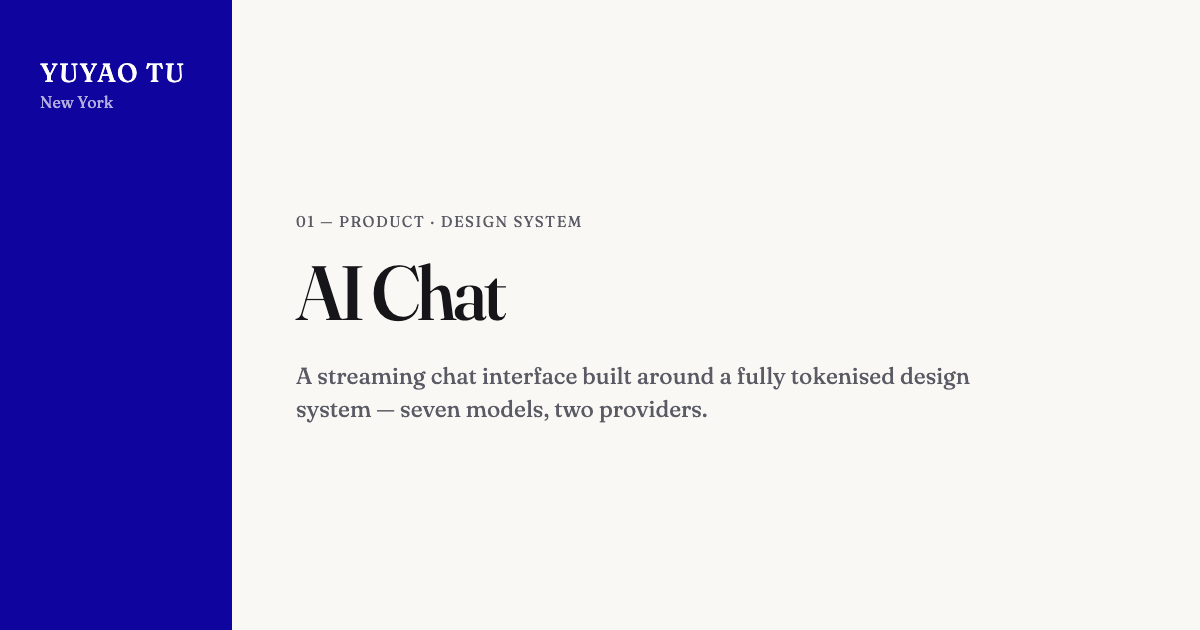
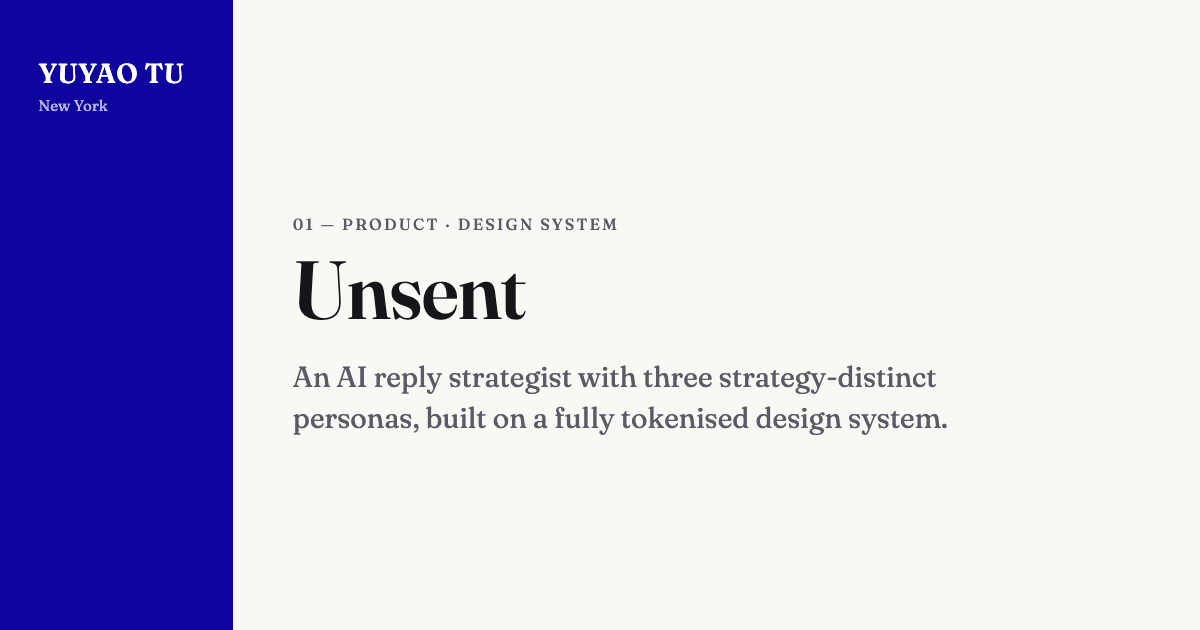
Rebrand case study 01 from AI Chat to Unsent
The project was rebranded to Unsent — an AI reply strategist with
strategy-distinct personas (Savage / Gentle / Veteran) on a Retro design
system. Bring the portfolio in line with what actually shipped.

- Index + rail title -> "AI Reply Strategist" (a value the reader gets at
  a glance); brand name "Unsent" carried in the meta line so it and the
  case study's own h1 introduce each other
- Case h1 "Unsent"; tighter lede; new "Why it exists" origin story that
  the vent/paste two-mode design falls out of
- Add persona-strategy and personaGuard (code-level safety) sections
- Retro palette description: dusty-pink ground, cream windows, coral +
  mustard accents, hard shadows
- Rewrite the contrast section for the light Retro theme with the real
  numbers — muted ink clearing AA on both grounds, status colours
  darkened ~18% off their translucent pills to clear 4.5:1
- Facts: 3 personas / 159 tokens / 119 tests, 10 suites
- Replace ai-chat.png with the new unsent.png; regenerate og-ai-chat.png

diff --git a/src/app/ai-chat/page.tsx b/src/app/ai-chat/page.tsx
@@ -2,13 +2,13 @@ import type { Metadata } from "next";
 import Image from "next/image";
 
 const DESCRIPTION =
-  "A streaming chat interface built around a fully tokenised design system — seven models, two providers.";
+  "An AI reply strategist with three strategy-distinct personas, built on a fully tokenised design system.";
 
 export const metadata: Metadata = {
-  title: "AI Chat",
+  title: "Unsent",
   description: DESCRIPTION,
   openGraph: {
-    title: "AI Chat — Yuyao Tu",
+    title: "Unsent — Yuyao Tu",
     description: DESCRIPTION,
     url: "/ai-chat",
     images: [{ url: "/og/og-ai-chat.png", width: 1200, height: 630 }],
@@ -29,21 +29,23 @@ const LINKS = [
 ];
 
 const FACTS = [
-  { value: "155", label: "design tokens" },
-  { value: "85", label: "tests, 7 suites" },
-  { value: "7", label: "models, 2 providers" },
+  { value: "3", label: "personas, orthogonal on strategy" },
+  { value: "159", label: "design tokens" },
+  { value: "119", label: "tests, 10 suites" },
 ];
 
 export default function AiChatPage() {
   return (
     <>
       <div className="case__eyebrow">01 — Product · Design system</div>
-      <h1 className="page-title">AI Chat</h1>
+      <h1 className="page-title">Unsent</h1>
 
       <p className="lede">
-        A streaming chat interface where the design system is the point. Seven
-        models across two providers, every value resolving through a token, and
-        the accessibility work done as engineering rather than as a checklist.
+        An AI reply strategist: you bring a hard message, it hands you words you
+        can actually send. It&rsquo;s built on a fully tokenised design system,
+        with the accessibility work done as engineering rather than as a
+        checklist — the craft underneath is as much the point here as the
+        product on top.
       </p>
 
       <div className="case__links">
@@ -59,10 +61,10 @@ export default function AiChatPage() {
           wait for lazy-loading to kick in. */}
       <div className="case__figure">
         <Image
-          src="/ai-chat.png"
-          alt="AI Chat interface — sidebar with conversation list, model selector, and the glass composer"
-          width={2880}
-          height={1626}
+          src="/unsent.png"
+          alt="Unsent interface — Veteran and Savage each answering the same pasted message with their own read and a copyable draft-reply card"
+          width={1972}
+          height={1666}
           priority
         />
       </div>
@@ -77,29 +79,104 @@ export default function AiChatPage() {
       </div>
 
       <section className="section">
-        <div className="section__label">The type scale is hand-tuned</div>
+        <div className="section__label">Why it exists</div>
         <div className="prose stack">
           <p>
-            A single mathematical ratio — 1.25×, 1.333× — has to compromise when
-            one scale serves both dense product UI and display type. So the ten
-            steps were tuned by role instead: tight at the small end where
-            information density matters, widening toward the display end where
-            impact does.
+            Some friends only call when things are falling apart. They feel in
+            floods; I think in straight lines — I can&rsquo;t always share the
+            feeling, but I can usually see the shape of what&rsquo;s happening.
+            Unsent is that friend without the part where even a good one fills
+            up: awake at 2am, warm enough to just listen, clear enough to name
+            what&rsquo;s really going on, and — when you ask — the words to send
+            back.
           </p>
           <p>
-            The four display steps are fluid, sized with{" "}
-            <code>clamp(min, A rem + B vw, max)</code> so headings scale
-            continuously between viewports rather than stepping at breakpoints.
-            The middle term mixes <code>rem</code> into <code>vw</code> on
-            purpose: a pure <code>vw</code> value ignores the reader&rsquo;s
-            browser font-size setting entirely, which fails WCAG 1.4.4.
+            The two modes fall straight out of that. Vent, and it just listens
+            in the persona&rsquo;s voice, then quietly offers a draft only if you
+            want one. Paste what they said, and it hands you the reply. There is
+            no mode switch to toggle — quoting the other person is itself the
+            signal that you want words back, so the interface never asks you to
+            classify your own message first.
+          </p>
+        </div>
+      </section>
+
+      <section className="section">
+        <div className="section__label">Personas differ on strategy, not tone</div>
+        <div className="prose stack">
+          <p>
+            The easy version of this product is one assistant with a tone
+            slider. The problem is that tone-only personas all give the same
+            advice in different accents. So the three advisors are orthogonal on{" "}
+            <em>strategy</em>, not wording: Savage cuts the losses, Gentle keeps
+            the thread alive, Veteran takes back the tempo. Put side by side on
+            the same message, they actually disagree about what to do.
           </p>
           <p>
-            Icon sizing is a separate scale. Several{" "}
-            <code>font-size</code> declarations were really sizing icon glyphs —
-            folding those into the type scale would mean resizing an avatar
-            perturbs body-copy proportions. Two unrelated concerns should not
-            share one control.
+            Getting there meant writing <em>style</em> and <em>strategy</em> as
+            two separate dimensions in the prompts, tuned over five rounds
+            against one fixed test input. Style alone and all three sound alike;
+            strategy alone and none of them has a personality. Every reply ends
+            in exactly one ready-to-send draft — the &ldquo;unsent&rdquo;
+            message the product is named for — that you copy in a click.
+          </p>
+        </div>
+      </section>
+
+      <section className="section">
+        <div className="section__label">A safety floor enforced in code, not the prompt</div>
+        <div className="prose stack">
+          <p>
+            A persona instructed to be blunt is one bad sample away from
+            advising something you can&rsquo;t take back. Because LLM output is
+            sampled rather than guaranteed, asking the prompt nicely is not a
+            control. So the shared safety floor lives in a{" "}
+            <code>personaGuard</code> that runs server-side after generation: it
+            parses the draft, checks banned phrases, and never lets any persona
+            recommend something irreversible.
+          </p>
+          <p>
+            Malformed output is validated, retried once, then degraded
+            gracefully rather than shown raw. The guard is a pure function with
+            its own test suite — the rule that &ldquo;no persona advises the
+            irreversible&rdquo; is verified in code, not left to trust in the
+            model.
+          </p>
+        </div>
+      </section>
+
+      <section className="section">
+        <div className="section__label">The whole look swapped by editing tokens, not components</div>
+        <div className="prose stack">
+          <p>
+            Every themeable value — colour, radius, shadow, font size, spacing —
+            resolves through a CSS variable rather than a literal. That is what
+            let the entire interface move from a dark glassmorphism theme to the
+            current
+            Retro system — a dusty-pink ground, cream windows, coral and mustard
+            accents, chunky black outlines, offset hard shadows — by editing
+            token{" "}
+            <em>values</em>, without touching a single component. The tokens
+            live in one file; the components only consume them.
+          </p>
+          <p>
+            The type scale is ten steps tuned by role rather than a single
+            ratio. A fixed 1.25× or 1.333× has to compromise when one scale
+            serves both dense product UI and display type, so the steps stay
+            tight at the small end where density matters and widen toward the
+            display end where impact does. The four display steps are fluid,
+            sized with <code>clamp(min, A rem + B vw, max)</code> so headings
+            scale continuously between viewports. The middle term mixes{" "}
+            <code>rem</code> into <code>vw</code> on purpose: a pure{" "}
+            <code>vw</code> value ignores the reader&rsquo;s browser font-size
+            setting entirely, which fails WCAG 1.4.4.
+          </p>
+          <p>
+            Icon sizing is a separate scale. Several <code>font-size</code>{" "}
+            declarations were really sizing icon and emoji glyphs — folding
+            those into the type scale would mean resizing an avatar perturbs
+            body-copy proportions. Two unrelated concerns should not share one
+            control.
           </p>
         </div>
       </section>
@@ -108,17 +185,21 @@ export default function AiChatPage() {
         <div className="section__label">Contrast measured, not declared</div>
         <div className="prose stack">
           <p>
-            Translucent surfaces mean a token&rsquo;s declared colour is not the
-            colour the text actually sits on. Muted ink and status colours were
-            darkened from the source design until small text cleared WCAG AA
-            against what <em>renders</em>, not against what the token says.
+            The same muted ink sits on two different grounds — the pink field
+            and the cream windows — so it was tuned to clear WCAG AA on both, not
+            just whichever ground the token happens to name. The status colours
+            needed more: the source design&rsquo;s green and amber landed near
+            3.3:1 on their translucent pills, under the 4.5:1 floor for the 14px
+            text sitting on them, so both were darkened about 18% until they
+            cleared it — same hue, measured against what <em>composites</em>, not
+            what the token declares.
           </p>
           <p>
-            Reduced motion collapses every transition to{" "}
-            <code>0.01ms</code> rather than <code>none</code>. Setting{" "}
-            <code>none</code> stops <code>transitionend</code> from ever firing,
-            which silently breaks any logic waiting on it — visually identical,
-            but the event contract survives.
+            Reduced motion collapses every transition to <code>0.01ms</code>{" "}
+            rather than <code>none</code>. Setting <code>none</code> stops{" "}
+            <code>transitionend</code> from ever firing, which silently breaks
+            any logic waiting on it — visually identical, but the event contract
+            survives.
           </p>
         </div>
       </section>
@@ -139,9 +220,9 @@ export default function AiChatPage() {
           <p>
             Hitting a limit returns <em>a stream, not an error</em>. The frames
             are identical in shape to a real model response, so a visitor
-            arriving after the quota is gone still sees streaming output,
-            Markdown rendering and syntax highlighting — rather than a red error
-            box that reads as a broken demo.
+            arriving after the quota is gone still sees output stream in, with
+            Markdown rendering, syntax highlighting and a working copy button —
+            rather than a red error box that reads as a broken demo.
           </p>
         </div>
       </section>

diff --git a/src/app/page.tsx b/src/app/page.tsx
@@ -6,8 +6,11 @@ const WORK = [
   {
     href: "/ai-chat",
     index: "01",
-    title: "AI Chat",
-    meta: "Design system · Streaming UI · 2026",
+    title: "AI Reply Strategist",
+    // The brand name leads the meta line so the index name and the case
+    // study's own h1 ("Unsent") introduce each other, rather than the visitor
+    // meeting an unexplained product name for the first time on click-through.
+    meta: "Unsent · AI personas · 2026",
   },
   {
     href: "/urban-studio",
@@ -37,8 +40,8 @@ export default function HomePage() {
 
       <p className="lede">
         Design developer. I work across brand, interface and production code —
-        most recently a design system for an AI chat product, and the brand and
-        storefront for a DTC nail label.
+        most recently an AI reply strategist built on a design system of my
+        own, and the brand and storefront for a DTC nail label.
       </p>
 
       <section className="section">

diff --git a/src/app/about/page.tsx b/src/app/about/page.tsx
@@ -29,8 +29,9 @@ export default function AboutPage() {
         </p>
 
         <p>
-          Two recent things: AI Chat, a chat app built on a design system of my
-          own; and Urban Studio, a press-on nail label where I set everything
+          Two recent things: Unsent, an AI reply strategist built on a design
+          system of my own; and Urban Studio, a press-on nail label where I set
+          everything
           from the brand to the storefront&rsquo;s templates. One is a product
           surface, the other a shopfront — and they turned out to be the same
           work. The detail is in the case studies, not in this paragraph.

diff --git a/src/app/components/Nav.tsx b/src/app/components/Nav.tsx
@@ -11,7 +11,7 @@ import { usePathname } from "next/navigation";
 // keeps the sequence intact instead of breaking the index with an odd item.
 const LINKS = [
   { href: "/", index: "00", title: "Home" },
-  { href: "/ai-chat", index: "01", title: "AI Chat" },
+  { href: "/ai-chat", index: "01", title: "AI Reply Strategist" },
   { href: "/urban-studio", index: "02", title: "Urban Studio" },
   { href: "/coursework", index: "03", title: "Coursework" },
   { href: "/about", index: "04", title: "About" },
